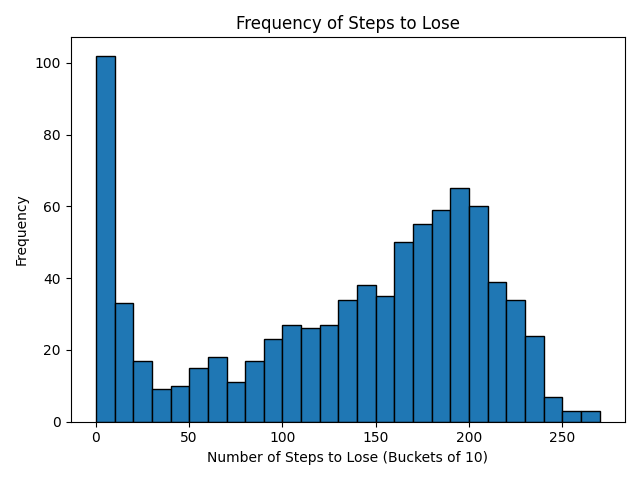
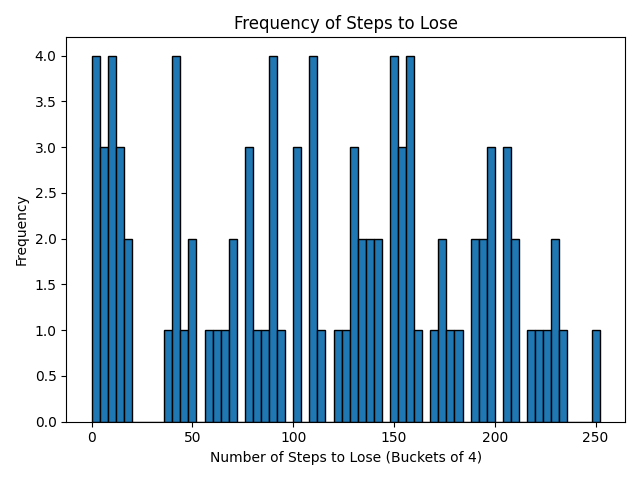
added guesses analysis

Changed region(s): [[0.0625, 0.0938, 0.9688, 0.9688], [0.3438, 0.0312, 0.7188, 0.0625]]

diff --git a/minesweeper.py b/minesweeper.py
@@ -189,37 +189,41 @@ class MinesweeperSolver:
                         probabilities[pos] = max(probabilities[pos], prob)
 
         return probabilities
+    
 
     # Get the unopened cell with the lowest risk probability
     def get_lowest_risk_move(self) -> Tuple[int, int]:
         probabilities = self.calculate_cell_probabilities()
 
         if not probabilities:
+            print("Probabilities Not Calculated")
             # If no probabilities calculated, choose first unopened cell
             for i in range(1, self.game.ROW + 1):
                 for j in range(1, self.game.COLUMNS + 1):
                     if not self.game.buttons[i][j].is_open:
                         return (i, j)
-
+        
         # Return position with lowest probability of being a mine
         return min(probabilities.items(), key=lambda x: x[1])[0]
 
-    def make_move(self) -> Tuple[int, int]:
+    def make_move(self):# -> Tuple[int, int]:
         # First click should be in the center
         if self.game.IS_FIRST_CLICK:
-            return (self.game.ROW // 2, self.game.COLUMNS // 2)
+            return (self.game.ROW // 2, self.game.COLUMNS // 2), 0
 
         # Click any known safe cells
         if self.known_safe:
-            return self.known_safe.pop()
+            return self.known_safe.pop(), 0
 
         # Apply solving techniques
         while self.basic_solve() or self.advanced_solve():
             if self.known_safe:
-                return self.known_safe.pop()
-
+                ret_coord = self.known_safe.pop()
+                return ret_coord, 0
+        
         # If no safe moves found, use probability estimation
-        return self.get_lowest_risk_move()
+        ret_coord = self.get_lowest_risk_move()
+        return ret_coord, 1
     
 
 # Test class
@@ -227,8 +231,8 @@ class MinesweeperTester:
     def _init__(self):
         self.test = test
         self.is_first_run = True
-        # list of list of results for each game [is_win, time, num_moves]
-        self.game_results: List[List[bool, float, int]] = []
+        # list of list of results for each game [is_win, time, num_moves, guesses]
+        self.game_results: List[List[bool, float, int, int]] = []
 
     @staticmethod
     def set_difficulty(game, difficulty):
@@ -254,6 +258,7 @@ class MinesweeperTester:
         is_win_index = 0
         time_index = 1
         num_moves_index = 2
+        guesses_index = 3
 
         # Initialize variables to keep track of totals
         total_wins = 0
@@ -263,6 +268,8 @@ class MinesweeperTester:
         win_times = []
         loss_steps = []
         win_steps = []
+        loss_guesses = []
+        win_guesses = []
 
         # Loop for number of games desired for testing
         for this_game in tqdm(range(num_games)):
@@ -279,10 +286,14 @@ class MinesweeperTester:
                 total_wins += 1
                 win_times.append(test.game_results[this_game][time_index] * 1000)
                 win_steps.append(test.game_results[this_game][num_moves_index])
+                win_guesses.append(test.game_results[this_game][guesses_index])
             else:
                 total_losses += 1
                 loss_times.append(test.game_results[this_game][time_index] * 1000)
                 loss_steps.append(test.game_results[this_game][num_moves_index])
+                loss_guesses.append(test.game_results[this_game][guesses_index])
+
+            
 
         # Print results with difficulty information
 
@@ -295,12 +306,14 @@ class MinesweeperTester:
         print("---")
 
         print(f"Average Time To Win: {np.mean(win_times):.2f} ms" if total_wins > 0 else "Average Time To Win: N/A")
+        print(f"Average Guesses in Win: {np.mean(win_guesses):.2f} " if total_losses > 0 else "Average Guesses in Loss: N/A")
         print(f"Average Steps To Win: {np.mean(win_steps):.2f}" if total_wins > 0 else "Average Steps To Win: N/A")
         print(f"Median Steps To Win: {np.median(win_steps):.2f}" if total_wins > 0 else "Median Steps To Win: N/A")
         print(f"Standard Deviation Steps To Win: {np.std(win_steps):.2f}" if total_wins > 0 else "Standard Deviation Steps To Win: N/A")
         print("---")
 
         print(f"Average Time To Lose: {np.mean(loss_times):.2f} ms" if total_losses > 0 else "Average Time To Lose: N/A")
+        print(f"Average Guesses in Loss: {np.mean(loss_guesses):.2f} " if total_losses > 0 else "Average Guesses in Loss: N/A")
         print(f"Average Steps To Lose: {np.mean(loss_steps):.2f}" if total_losses > 0 else "Average Steps To Lose: N/A")
         print(f"Median Steps To Lose: {np.median(loss_steps):.2f}" if total_losses > 0 else "Median Steps To Lose: N/A")
         print(f"Standard Deviation Steps To Lose: {np.std(loss_steps):.2f}" if total_losses > 0 else "Standard Deviation Steps To Lose: N/A")
@@ -308,10 +321,10 @@ class MinesweeperTester:
 
         print("---")
 
-        cls.graph_frequencies(loss_steps, 4)
+        cls.graph_frequencies(loss_steps, 4, difficulty)
 
     @classmethod
-    def graph_frequencies(cls, list, bucket_size):
+    def graph_frequencies(cls, list, bucket_size, difficulty):
         plt.ioff()  # Disable interactive mode temporarily
         
         max_value = max(list) if list else 0
@@ -319,12 +332,18 @@ class MinesweeperTester:
 
         hist, bin_edges = np.histogram(list, bins=bins)
         plt.bar(bin_edges[:-1], hist, width=bucket_size, edgecolor="black", align="edge")
-        plt.xlabel("Number of Steps to Lose (Buckets of 10)")
+        plt.xlabel(f"Number of Steps to Lose (Buckets of {bucket_size})")
         plt.ylabel("Frequency")
         plt.title("Frequency of Steps to Lose")
 
         plt.tight_layout()
-        plt.savefig("./Intermediate_Step_Frequencies.png")
+        if difficulty == "easy":
+            plt.savefig("./Easy_Step_Frequencies.png")
+        elif difficulty == "intermediate":
+            plt.savefig("./Intermediate_Step_Frequencies.png")
+        elif difficulty == "advanced":
+            plt.savefig("./Advanced_Step_Frequencies.png")
+
         plt.close('all')  # Close all open figures to free resources
         
         
@@ -375,6 +394,7 @@ class MineSweeper:
         self.solve_start_time = None
         self.solve_total_time = 0.0
         self.move_count = 0
+        self.guesses = 0
 
         self.IS_GAME_OVER = False
         self.IS_LOSS = False
@@ -438,7 +458,9 @@ class MineSweeper:
 
         # Keep making moves until game is over
         while not self.IS_GAME_OVER:
-            x, y = self.solver.make_move()
+            move_coords, guesses = self.solver.make_move()
+            self.guesses += guesses
+            x, y = move_coords
             btn = self.buttons[x][y]
             self.click(btn)
 
@@ -544,7 +566,7 @@ class MineSweeper:
                 if test.is_first_run:
                     test.game_results = []
                 test.game_results.append(
-                    [False, self.solve_total_time, self.move_count])
+                    [False, self.solve_total_time, self.move_count, self.guesses])
                 self.window.quit()
                 return
 
@@ -583,7 +605,7 @@ class MineSweeper:
                 if test.is_first_run:
                     test.game_results = []
                 test.game_results.append(
-                    [True, self.solve_total_time, self.move_count])
+                    [True, self.solve_total_time, self.move_count, self.guesses])
                 self.window.quit()
                 return
 
@@ -620,7 +642,9 @@ class MineSweeper:
             if self.solve_start_time is None:
                 self.solve_start_time = time.time()
 
-            x, y = self.solver.make_move()
+            move_coords, guesses = self.solver.make_move()
+            self.guesses += guesses
+            x, y = move_coords
             btn = self.buttons[x][y]
             self.click(btn)
 
